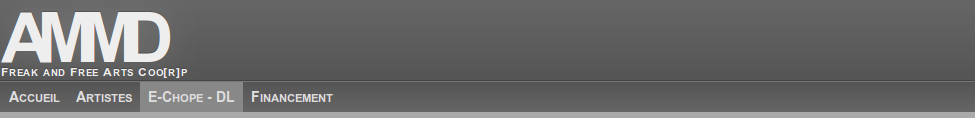
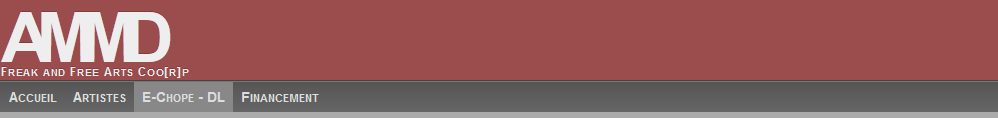
bandcamp headers

diff --git a/theme-v1/swiper/idangerous.swiper.css b/theme-v1/swiper/idangerous.swiper.css
@@ -156,3 +156,9 @@ Pagination Styles
 	color:#eee;
 	z-index:9;
 }
+.swiper-caption:hover {
+	color:#9B4D4D;
+}
+.swiper-caption-date:hover {
+	color:#9B4D4D;
+}

diff --git a/theme-v1/css/style.css b/theme-v1/css/style.css
@@ -475,7 +475,7 @@ body {
 	height:auto;
 }
 .swiper-container {
-	height:200px;
+	height:240px;
 }
 .selectnav {
 	display:block;

diff --git a/tmp/meta_cache.php b/tmp/meta_cache.php
@@ -1,2 +1,2 @@
 <?php die ('Acces interdit'); ?>
[2 lines of base64/hex data omitted]

diff --git a/tmp/cache/skel/html_cbd2d3ffab9778ea88b5c59ada59a2c3.php b/tmp/cache/skel/html_cbd2d3ffab9778ea88b5c59ada59a2c3.php
@@ -2,8 +2,8 @@
 
 /*
  * Squelette : theme-v1/sommaire.html
- * Date :      Wed, 09 Oct 2013 09:08:07 GMT
- * Compile :   Wed, 09 Oct 2013 09:08:13 GMT
+ * Date :      Wed, 09 Oct 2013 09:26:29 GMT
+ * Compile :   Wed, 09 Oct 2013 09:26:32 GMT
  * Boucles :   _rubrique_courante_article, _titleA, _title, _desc, _subnav, _nav, _ariane_article, _ariane, _ariane_evt, _contenu, _sousrubriques, _evenement, _ls_evenements, _ls_evenements_p, _agendaG, _agenda, _side_articles, _sousrubriques_side, _rubrique
  */ 
 
@@ -1547,7 +1547,7 @@ BOUCLE_evenementhtml_cbd2d3ffab9778ea88b5c59ada59a2c3($Cache, $Pile, $doublons, 
 
 //
 // Fonction principale du squelette theme-v1/sommaire.html
-// Temps de compilation total: 462.027 ms
+// Temps de compilation total: 489.027 ms
 //
 
 function html_cbd2d3ffab9778ea88b5c59ada59a2c3($Cache, $Pile, $doublons=array(), $Numrows=array(), $SP=0) {
